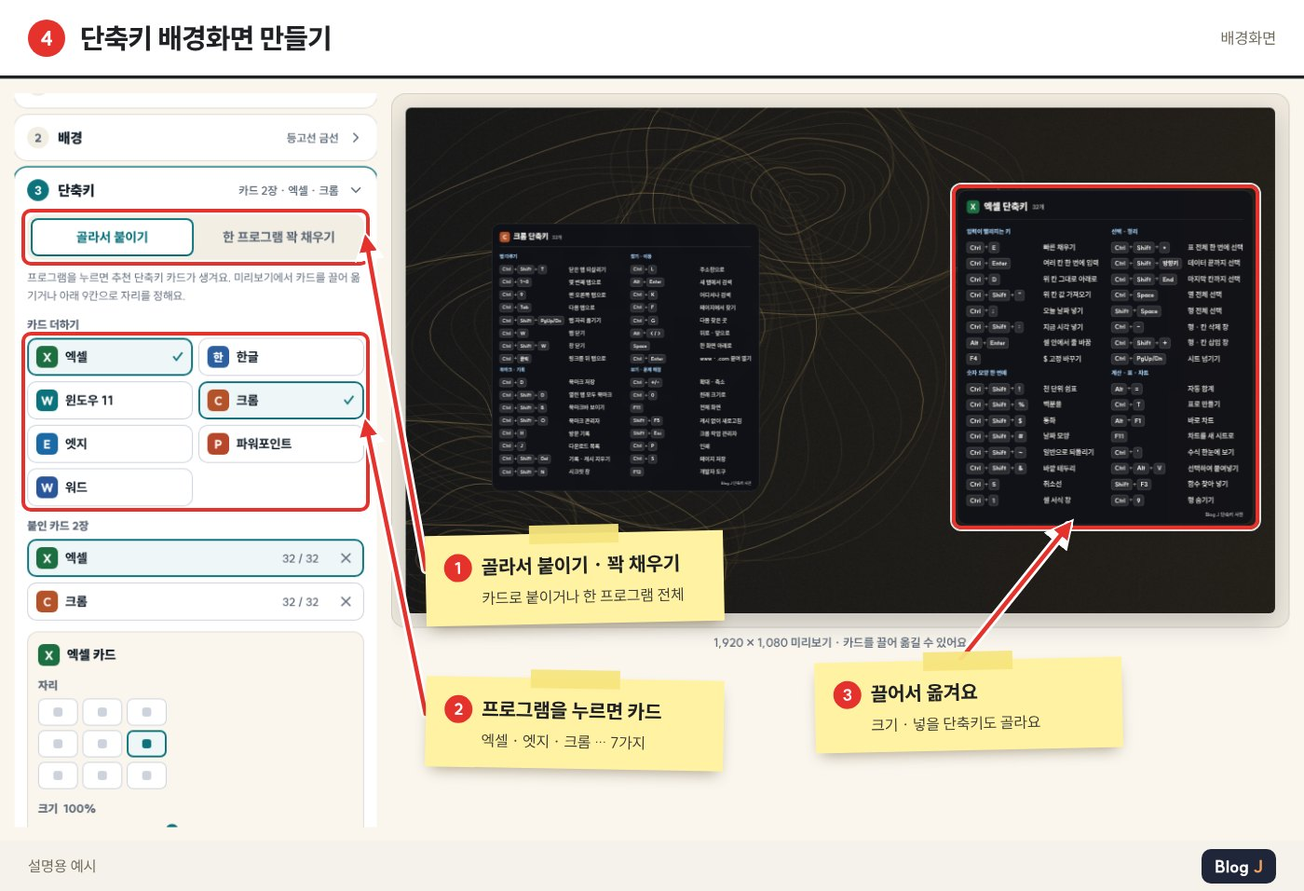
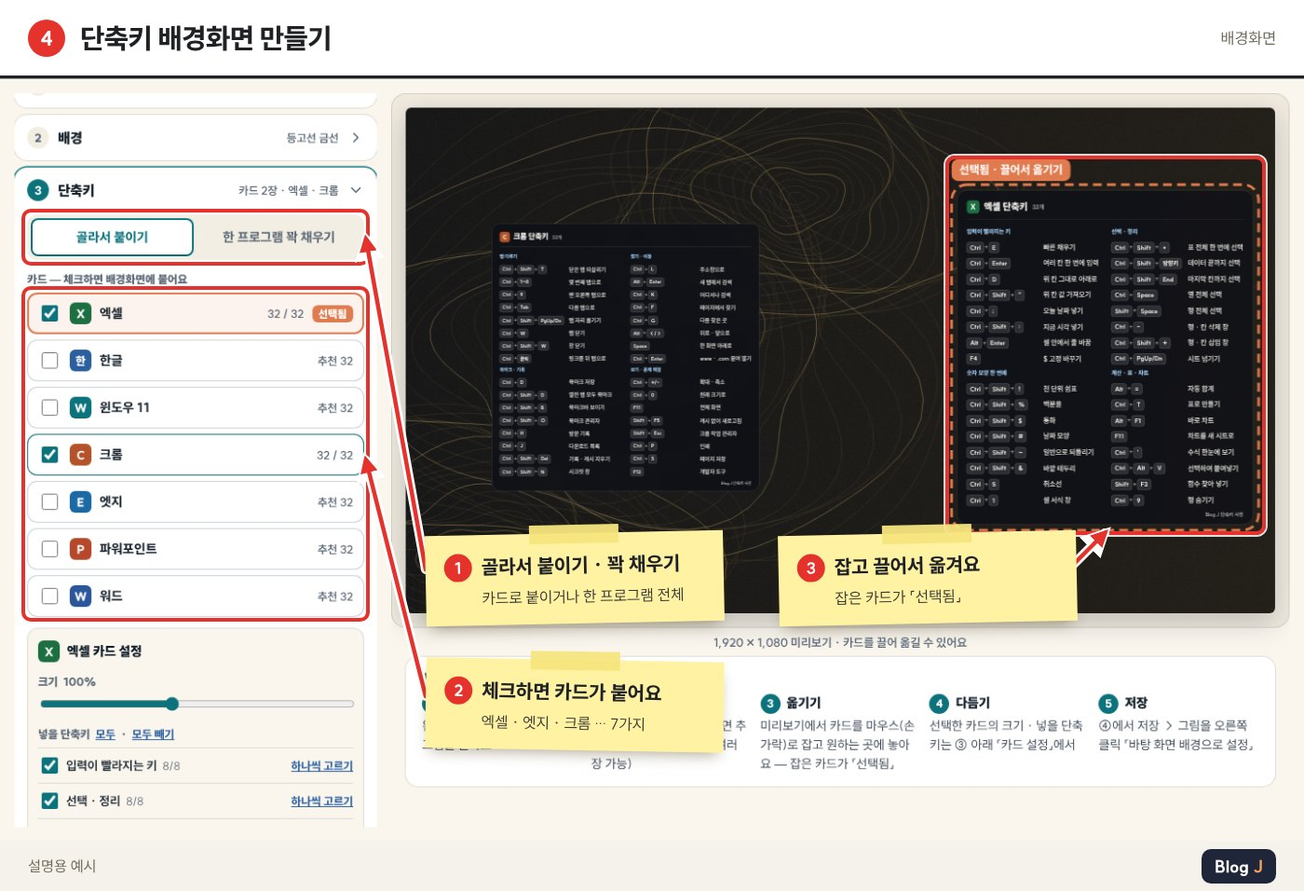
수정

Changed region(s): [[0.3071, 0.1517, 0.9829, 0.8797], [0.0, 0.3033, 0.3071, 0.91], [0.215, 0.8494, 0.2764, 0.91]]

diff --git a/shortcut/index.html b/shortcut/index.html
@@ -260,6 +260,22 @@ html.wopen,html.wopen body{overflow:hidden}
   .wtt small{display:none}
   .wback span{display:none}
 }
+.wplist{display:flex;flex-direction:column;gap:6px}
+.wpr{display:flex;align-items:center;gap:4px;padding-left:12px;border-radius:11px;box-shadow:inset 0 0 0 1px var(--line);background:#fff}
+.wpr.has{box-shadow:inset 0 0 0 1px var(--sea)}
+.wpr.sel{box-shadow:inset 0 0 0 2px #E07A4F;background:#FDF3EE}
+.wpn{flex:1;display:flex;align-items:center;gap:9px;height:46px;padding:0 12px 0 6px;text-align:left;min-width:0}
+.wpn b{font-size:14.5px;font-weight:800}
+.wpn span{margin-left:auto;font-size:12.5px;color:var(--sub);font-weight:700}
+.wpn em{font-style:normal;font-size:12px;font-weight:900;color:#fff;background:#E07A4F;border-radius:6px;padding:2px 7px}
+.wpn i{width:24px;height:24px;border-radius:6px;display:grid;place-items:center;color:#fff;font-style:normal;font-weight:900;font-size:12.5px;flex-shrink:0}
+.whow{width:100%;max-width:960px;background:#fff;border-radius:14px;box-shadow:0 0 0 1px var(--hair);padding:14px 18px;box-sizing:border-box}
+.wht{display:block;font-size:15px;font-weight:900;margin-bottom:8px}
+.whow ol{margin:0;padding:0;list-style:none;counter-reset:h;display:grid;grid-template-columns:repeat(auto-fit,minmax(170px,1fr));gap:10px}
+.whow li{counter-increment:h;display:flex;flex-direction:column;gap:3px;font-size:14px;line-height:1.5;color:var(--ink)}
+.whow li b{display:flex;align-items:center;gap:7px;font-weight:900;font-size:14.5px}
+.whow li b:before{content:counter(h);width:22px;height:22px;border-radius:50%;background:var(--sea);color:#fff;display:grid;place-items:center;font-size:12.5px;flex-shrink:0}
+.whow li span{color:#3c4856}
 
 .wcta{display:flex;align-items:center;gap:12px;width:100%;padding:14px;border-radius:14px;background:var(--deep);color:#fff;text-align:left;font:inherit;border:0;cursor:pointer;margin-top:12px;box-shadow:0 4px 14px rgba(11,61,74,.18)}
 .wcta:hover{background:#0d4a59}
@@ -865,12 +881,12 @@ const WREC = {"excel":{"t":"엑셀 단축키","g":[["입력이 빨라지는 키"
 const WSC = {
   contour: ["등고선 금선", "도형"], marble: ["대리석 · 금", "도형"], grid: ["모래 · 바다 모눈", "도형"], stage: ["겨울 무대 조명", "도형"], arches: ["봄 파스텔 도형", "도형"], bauhaus: ["여름 원색 도형", "도형"], papercut: ["가을 종이 공예", "도형"],
   desk_winter: ["겨울 편지", "책상"], desk_spring: ["봄 책상", "책상"], desk_summer: ["여름 원고지", "책상"], desk_autumn: ["가을 책과 차", "책상"],
-  snowpeak: ["새벽 설산", "겨울"], nightforest: ["눈 내리는 숲", "겨울"], pine: ["겨울 소나무", "한국"], city: ["겨울 밤 도시", "도시"], aurora: ["오로라 별밤", "하늘"],
-  sakura: ["벚꽃 가지", "봄"], plum: ["봄 매화", "한국"], alley: ["봄 골목", "도시"], dawn: ["새벽 하늘", "하늘"],
-  sea: ["모래 · 바다 · 하늘", "여름"], coast: ["여름 해안 도로", "도시"], bamboo: ["여름 대나무", "한국"], cloud: ["한낮 구름", "하늘"],
-  maple: ["단풍 산", "가을"], avenue: ["가을 가로수길", "도시"], chrysan: ["가을 국화", "한국"], sunset: ["노을", "하늘"], moonjar: ["한지 · 달항아리", "한국"]
+  snowpeak: ["새벽 설산", "계절"], nightforest: ["눈 내리는 숲", "계절"], pine: ["겨울 소나무", "한국"], city: ["겨울 밤 도시", "도시"], aurora: ["오로라 별밤", "하늘"],
+  sakura: ["벚꽃 가지", "계절"], plum: ["봄 매화", "한국"], alley: ["봄 골목", "도시"], dawn: ["새벽 하늘", "하늘"],
+  sea: ["모래 · 바다 · 하늘", "계절"], coast: ["여름 해안 도로", "도시"], bamboo: ["여름 대나무", "한국"], cloud: ["한낮 구름", "하늘"],
+  maple: ["단풍 산", "계절"], avenue: ["가을 가로수길", "도시"], chrysan: ["가을 국화", "한국"], sunset: ["노을", "하늘"], moonjar: ["한지 · 달항아리", "한국"]
 };
-const WCATS = ["도형", "책상", "겨울", "봄", "여름", "가을", "한국", "하늘", "도시", "단색", "내 사진"];
+const WCATS = ["계절", "도형", "책상", "한국", "하늘", "도시", "단색", "내 사진"];
 const WSOLID = [["#0B3D4A", "깊은 바다"], ["#14202B", "먹"], ["#2B3A55", "남색 밤"], ["#1E3A2F", "숲"], ["#F3EEE3", "모래"], ["#E9EEF2", "구름"], ["#FFFFFF", "흰색"], ["#F4DCD3", "살구"]];
 const WRES = [
   ["PC · 모니터", [[1920, 1080, "FHD", "가장 흔한 모니터"], [2560, 1440, "QHD", "27인치"], [3840, 2160, "4K", "4K 모니터"], [3440, 1440, "울트라와이드", "21:9"]]],
@@ -885,7 +901,7 @@ function BL() {
     mode: "pick", cards: [{ p: "excel", off: [], size: 100, fx: .94, fy: .5 }], sel: 0, open: {}, fp: "excel", fsrc: "rec", fcats: [], icon: true, fmt: "png" };
 }
 let W = (() => { try { const v = JSON.parse(localStorage.getItem(LK) || "null"); if (v && v.cards) return Object.assign(BL(), v); } catch (e) {} return BL(); })();
-if (!W.cards.length) W.cards = BL().cards;
+if (!W.cards) W.cards = BL().cards; if (!WCATS.includes(W.cat)) W.cat = "계절";
 let svT; const wsave = () => { clearTimeout(svT); svT = setTimeout(() => { try { localStorage.setItem(LK, JSON.stringify(W)); } catch (e) {} }, 300); };
 let PHOTO = null;
 const $w = s => document.querySelector("#wallv " + s);
@@ -913,16 +929,15 @@ function theme(bg) {
     cap: dark ? "rgba(255,255,255,.12)" : "#FFFFFF", capl: dark ? "rgba(255,255,255,.26)" : "rgba(20,32,43,.22)" };
 }
 function rr(c, x, y, w, h, r) { c.beginPath(); c.moveTo(x + r, y); c.arcTo(x + w, y, x + w, y + h, r); c.arcTo(x + w, y + h, x, y + h, r); c.arcTo(x, y + h, x, y, r); c.arcTo(x, y, x + w, y, r); c.closePath(); }
-function panel(c, src, k, T, x, y, w, h, u) {
+function panel(c, src, k, T, x, y, w, h, u, op) {   /* src = 미리 흐리게 줄인 배경(blur) */
   if (T.mode === "none") return; const r = 22 * u;
   if (T.mode === "glass" || T.mode === "dark") {
-    const q = 1 / 18, t = document.createElement("canvas"); t.width = Math.max(2, Math.round(w * k * q)); t.height = Math.max(2, Math.round(h * k * q));
-    const tc = t.getContext("2d"); tc.imageSmoothingQuality = "high"; tc.drawImage(src, x * k, y * k, w * k, h * k, 0, 0, t.width, t.height);
-    c.save(); rr(c, x, y, w, h, r); c.clip(); c.drawImage(t, x, y, w, h);
-    c.fillStyle = T.mode === "dark" ? "rgba(10,14,22,.68)" : `rgba(255,255,255,${Math.min(.84, Math.max(.36, T.ga + .14))})`; c.fillRect(x, y, w, h); c.restore();
+    const q = src.width / (W.w * k);
+    c.save(); rr(c, x, y, w, h, r); c.clip(); c.imageSmoothingQuality = "high"; c.drawImage(src, x * k * q, y * k * q, Math.max(1, w * k * q), Math.max(1, h * k * q), x, y, w, h);
+    c.fillStyle = T.mode === "dark" ? `rgba(10,14,22,${op || .68})` : `rgba(255,255,255,${op || Math.min(.84, Math.max(.36, T.ga + .14))})`; c.fillRect(x, y, w, h); c.restore();
     c.save(); rr(c, x + .5, y + .5, w - 1, h - 1, r); c.strokeStyle = T.mode === "dark" ? "rgba(255,255,255,.14)" : "rgba(255,255,255,.6)"; c.lineWidth = 1.5 * u; c.stroke(); c.restore();
   } else {
-    c.save(); c.shadowColor = "rgba(40,30,10,.25)"; c.shadowBlur = 36 * u; c.shadowOffsetY = 14 * u; rr(c, x, y, w, h, r); c.fillStyle = T.pbg; c.fill(); c.restore();
+    c.save(); c.shadowColor = "rgba(40,30,10,.25)"; c.shadowBlur = 36 * u; c.shadowOffsetY = 14 * u; rr(c, x, y, w, h, r); c.fillStyle = op ? `rgba(253,250,244,${op + .06})` : T.pbg; c.fill(); c.restore();
     c.save(); rr(c, x + .5, y + .5, w - 1, h - 1, r); c.strokeStyle = T.pline; c.lineWidth = 1.2 * u; c.stroke(); c.restore();
   }
 }
@@ -986,77 +1001,92 @@ function fullList() {
 }
 function catsOf(p) { const M = new Map(); for (const x of DATA.items) if (x.p === p) M.set(x.c, (M.get(x.c) || 0) + 1); return [...M]; }
 function drawFull(c, src, k, T, w, h, u) {
-  const A = safe(w, h, u), P = PROG[W.fp], G = fullList();
+  const rec = W.fsrc === "rec";
+  let A = safe(w, h, u); if (!rec && !port()) A = { x0: W.icon ? Math.min(w * .075, 150 * u) : w * .012, x1: w - w * .012, y0: h * .018, y1: h - 58 * u };   /* 전체 = 화면 가득 */
+  const P = PROG[W.fp], G = fullList();
   const n = G.reduce((a, g) => a + g[1].length, 0);
-  const px = A.x0, py = A.y0, pw = A.x1 - A.x0, ph = A.y1 - A.y0;
-  panel(c, src, k, T, px, py, pw, ph, u);
-  const pad = 26 * u, head = 58 * u;
-  rr(c, px + pad, py + pad + 4 * u, 34 * u, 34 * u, 8 * u); c.fillStyle = P.c; c.fill(); T_(c, P.ab, px + pad + 17 * u, py + pad + 21.5 * u, 18 * u, 900, "#fff", "center");
-  T_(c, P.n + " 단축키", px + pad + 46 * u, py + pad + 21 * u, 26 * u, 900, T.ink); F(c, 26 * u, 900);
-  T_(c, `${n}개 · ${P.v}`, px + pad + 46 * u + c.measureText(P.n + " 단축키").width + 12 * u, py + pad + 22 * u, 14 * u, 700, T.sub);
-  T_(c, "Blog J 단축키 사전", px + pw - pad, py + pad + 22 * u, 12.5 * u, 700, T.sub, "right");
-  const X0 = px + pad, Y0 = py + pad + head, CW = pw - pad * 2, CH = ph - pad * 2 - head;
-  /* 글자 크기 · 칸 수 찾기 — 다 들어가는 가장 큰 글자 */
+  const pad = (rec ? 26 : 20) * u, head = (rec ? 58 : 50) * u, AW = A.x1 - A.x0, AH = A.y1 - A.y0, CW = AW - pad * 2, CH = AH - pad * 2 - head;
+  /* 글자 크기 · 칸 수 찾기 — 다 들어가는 가장 큰 글자(추천은 너무 크지 않게) */
+  const tryFit = (f, cols, cw) => { const lh = f * 1.62, hh = f * 2.05; let col = 0, y = 0, maxY = 0;
+    for (const g of G) { if (y > 0 && y + hh + lh > CH) { col++; y = 0; } y += hh;
+      for (let i = 0; i < g[1].length; i++) { if (y + lh > CH) { col++; y = 0; } y += lh; maxY = Math.max(maxY, y); }
+      if (col >= cols) return null; }
+    return { used: col + 1, maxY }; };
   let best = null;
-  for (let fs = 19; fs >= 8.5; fs -= .5) {
-    const f = fs * u, lh = f * 1.62, hh = f * 2.05, gap = f * 1.6;
-    const cols = Math.max(1, Math.floor((CW + gap) / (f * (W.fsrc === "rec" ? 21 : 24) + gap)));
-    const cw = (CW - (cols - 1) * gap) / cols;
-    let col = 0, y = 0, ok = true;
-    for (const g of G) {
-      if (y > 0 && y + hh + lh > CH) { col++; y = 0; }
-      y += hh;
-      for (let i = 0; i < g[1].length; i++) { if (y + lh > CH) { col++; y = 0; } y += lh; }
-      if (col >= cols) { ok = false; break; }
-    }
-    if (ok) { best = { f, lh, hh, gap, cols, cw }; break; }
+  for (let fs = rec ? 17 : 19; fs >= 8.5; fs -= .5) {
+    const f = fs * u, gap = f * 1.6, cols = Math.max(1, Math.floor((CW + gap) / (f * (rec ? 21 : 24) + gap))), cw = (CW - (cols - 1) * gap) / cols;
+    const r = tryFit(f, cols, cw); if (r) { best = { f, gap, cols, cw, used: r.used, maxY: r.maxY }; break; }
   }
   const small = !best;
-  if (!best) { const f = 8.5 * u; best = { f, lh: f * 1.62, hh: f * 2.05, gap: f * 1.6, cols: Math.max(1, Math.floor(CW / (f * 24))), cw: 0 }; best.cw = (CW - (best.cols - 1) * best.gap) / best.cols; }
-  const { f, lh, hh, gap, cols, cw } = best; const kw = cw * (W.fsrc === "rec" ? .46 : .4);
+  if (!best) { const f = 8.5 * u, gap = f * 1.6, cols = Math.max(1, Math.floor(CW / (f * 24))); best = { f, gap, cols, cw: (CW - (cols - 1) * gap) / cols, used: cols, maxY: CH }; }
+  let { f, gap, cw, used, maxY } = best; const lh = f * 1.62, hh = f * 2.05;
+  /* 판 크기 = 내용만큼(남는 공간 없이) — 추천은 칸 너비도 내용에 맞춤 */
+  if (rec) { let need = 0, cm = 0, lm = 0; G.forEach(g => g[1].forEach(it => { cm = Math.max(cm, capsW(c, it[0], f * .86)); F(c, f, 600); lm = Math.max(lm, c.measureText(it[1]).width); })); G.forEach(g => g[1].forEach(it => { const cw0 = capsW(c, it[0], f * .86); F(c, f, 600); need = Math.max(need, cw0 + f * 1.2 + c.measureText(it[1]).width); })); need = Math.max(need, cm + f * 1.2 + lm); cw = Math.min(cw, need + f); }
+  const kw = rec ? null : cw * .4;
+  const pw = Math.min(AW, pad * 2 + used * cw + (used - 1) * gap), ph = Math.min(AH, pad * 2 + head + maxY);
+  const px = rec ? A.x1 - pw : A.x0 + (AW - pw) / 2, py = A.y0 + (AH - ph) / 2;
+  panel(c, src, k, T, px, py, pw, ph, u, rec ? 0 : .86);
+  rr(c, px + pad, py + pad + 4 * u, 34 * u, 34 * u, 8 * u); c.fillStyle = P.c; c.fill(); T_(c, P.ab, px + pad + 17 * u, py + pad + 21.5 * u, 18 * u, 900, "#fff", "center");
+  T_(c, P.n + " 단축키", px + pad + 46 * u, py + pad + 21 * u, 26 * u, 900, T.ink); F(c, 26 * u, 900); const tw = c.measureText(P.n + " 단축키").width;
+  T_(c, rec ? `추천 ${n}개` : `${n}개 · ${P.v}`, px + pad + 46 * u + tw + 12 * u, py + pad + 22 * u, 14 * u, 700, T.sub);
+  if (pw > 520 * u) T_(c, "Blog J 단축키 사전", px + pw - pad, py + pad + 22 * u, 12.5 * u, 700, T.sub, "right");
+  const X0 = px + pad, Y0 = py + pad + head, CH2 = ph - pad * 2 - head;
+  let capMax = 0; if (rec) G.forEach(g => g[1].forEach(it => { capMax = Math.max(capMax, capsW(c, it[0], f * .86)); }));
   let col = 0, y = 0; const X = () => X0 + col * (cw + gap);
   for (const g of G) {
-    if (y > 0 && y + hh + lh > CH) { col++; y = 0; } if (col >= cols) break;
+    if (y > 0 && y + hh + lh > CH2 + 1) { col++; y = 0; } if (col >= used) break;
     T_(c, g[0], X(), Y0 + y + hh * .55, f * 1.05, 900, T.acc); c.fillStyle = T.dark ? "rgba(255,255,255,.14)" : "rgba(20,32,43,.1)"; c.fillRect(X(), Y0 + y + hh - f * .32, cw, Math.max(1, u * .8)); y += hh;
     for (const it of g[1]) {
-      if (y + lh > CH) { col++; y = 0; } if (col >= cols) break;
+      if (y + lh > CH2 + 1) { col++; y = 0; } if (col >= used) break;
       const cyy = Y0 + y + lh / 2;
-      if (it[2]) { const capw = capsW(c, it[0], f * .86); if (capw <= kw) drawCaps(c, T, it[0], X(), cyy, f * .86); else { F(c, f * .92, 800); T_(c, fit(c, it[0].join("+"), kw), X(), cyy, f * .92, 800, T.acc); } }
-      else { F(c, f * .92, 800); T_(c, fit(c, String(it[0]).replace(/ \/ /g, " · "), kw - f * .6), X(), cyy, f * .92, 800, T.acc); }
-      F(c, f, 600); T_(c, fit(c, it[1], cw - kw - f * .3), X() + kw, cyy, f, 600, T.ink);
+      if (it[2]) { drawCaps(c, T, it[0], X(), cyy, f * .86); F(c, f, 600); T_(c, fit(c, it[1], cw - capMax - f * 1.2), X() + capMax + f * 1.2, cyy, f, 600, T.ink); }
+      else { F(c, f * .92, 800); T_(c, fit(c, String(it[0]).replace(/ \/ /g, " · "), kw - f * .6), X(), cyy, f * .92, 800, T.acc); F(c, f, 600); T_(c, fit(c, it[1], cw - kw - f * .3), X() + kw, cyy, f, 600, T.ink); }
       y += lh;
     }
   }
   return { small, n };
 }
 
-/* ── 그리기 ── */
-let RECTS = [], LASTINFO = {};
-async function render(cv, k) {
+/* ── 그리기 ── 배경은 한 번만 그려 두고(BGC), 카드만 다시 그림 → 끌 때 부드럽게 */
+let RECTS = [], LASTINFO = {}; const BGC = {}; let photoId = 0;
+async function ensureBg(k, slot) {
   const w = W.w, h = W.h, pw = Math.max(2, Math.round(w * k)), ph = Math.max(2, Math.round(h * k));
-  cv.width = pw; cv.height = ph; const c = cv.getContext("2d");
+  const key = [pw, ph, W.cat, W.scene, W.solid, W.dim, photoId].join("|");
+  if (BGC[slot] && BGC[slot].key === key) return BGC[slot];
   try { await document.fonts.load(`800 20px "SUIT Variable"`); } catch (e) {}
-  const bg = await bgOf(pw, ph);
-  c.setTransform(1, 0, 0, 1, 0, 0);
+  const bg = await bgOf(pw, ph), cv = document.createElement("canvas"); cv.width = pw; cv.height = ph; const c = cv.getContext("2d");
   if (bg.solid) { c.fillStyle = bg.solid; c.fillRect(0, 0, pw, ph); }
   else if (bg.photo) { const im = bg.im, r = Math.max(pw / im.width, ph / im.height), dw = im.width * r, dh = im.height * r; c.drawImage(im, (pw - dw) / 2, (ph - dh) / 2, dw, dh); if (W.dim) { c.fillStyle = `rgba(0,0,0,${W.dim / 100})`; c.fillRect(0, 0, pw, ph); } }
   else c.drawImage(bg.im, 0, 0, pw, ph);
-  const src = document.createElement("canvas"); src.width = pw; src.height = ph; src.getContext("2d").drawImage(cv, 0, 0);
-  c.setTransform(k, 0, 0, k, 0, 0);
-  const T = theme(bg), u = Math.min(w, h) / 1080 * (port() ? 1.3 : 1);
-  RECTS = []; LASTINFO = {};
-  if (W.mode === "full") { LASTINFO = drawFull(c, src, k, T, w, h, u); return; }
+  const bl = document.createElement("canvas"); bl.width = Math.max(2, Math.round(pw / 18)); bl.height = Math.max(2, Math.round(ph / 18)); const bc = bl.getContext("2d"); bc.imageSmoothingQuality = "high"; bc.drawImage(cv, 0, 0, bl.width, bl.height);
+  return (BGC[slot] = { key, cv, bl, bg, k, pw, ph });
+}
+function compose(out, B, pv, bgOnly) {
+  const w = W.w, h = W.h, k = B.k; if (out.width !== B.pw) out.width = B.pw; if (out.height !== B.ph) out.height = B.ph;
+  const c = out.getContext("2d"); c.setTransform(1, 0, 0, 1, 0, 0); c.drawImage(B.cv, 0, 0); c.setTransform(k, 0, 0, k, 0, 0);
+  const T = theme(B.bg), u = Math.min(w, h) / 1080 * (port() ? 1.3 : 1);
+  RECTS = []; LASTINFO = {}; if (bgOnly) return;
+  if (W.mode === "full") { LASTINFO = drawFull(c, B.bl, k, T, w, h, u); return; }
   const A = safe(w, h, u);
   const order = W.cards.map((cd, i) => i).filter(i => i !== W.sel).concat(W.cards[W.sel] ? [W.sel] : []);   /* 고른 카드를 맨 위에 */
   order.forEach(i => { const cd = W.cards[i];
     if (!WREC[cd.p]) return; const L = layoutCard(c, cd, u); if (!L.n) return;
     let x = A.x0 + (A.x1 - A.x0) * cd.fx - L.w / 2, y = A.y0 + (A.y1 - A.y0) * cd.fy - L.h / 2;
     x = Math.max(A.x0, Math.min(A.x1 - L.w, x)); y = Math.max(A.y0, Math.min(A.y1 - L.h, y));
-    panel(c, src, k, T, x, y, L.w, L.h, L.s); drawCard(c, T, cd, L, x, y);
+    const lift = pv && drag && drag.i === i;
+    if (lift) { c.save(); const cx = x + L.w / 2, cy = y + L.h / 2; c.translate(cx, cy); c.scale(1.025, 1.025); c.translate(-cx, -cy);
+      c.save(); c.shadowColor = "rgba(0,0,0,.45)"; c.shadowBlur = 60 * L.s; c.shadowOffsetY = 28 * L.s; rr(c, x, y, L.w, L.h, 22 * L.s); c.fillStyle = "rgba(0,0,0,.25)"; c.fill(); c.restore(); }
+    panel(c, B.bl, k, T, x, y, L.w, L.h, L.s); drawCard(c, T, cd, L, x, y);
+    if (pv && i === W.sel && W.cards.length) {   /* 미리보기에서만: 고른 카드 표시(저장 그림에는 없음) */
+      const lw = 3 / k, g = 6 / k; c.save(); rr(c, x - g, y - g, L.w + g * 2, L.h + g * 2, 22 * L.s + g); c.strokeStyle = "#E07A4F"; c.lineWidth = lw; c.setLineDash([10 / k, 6 / k]); c.stroke(); c.setLineDash([]);
+      const tag = "선택됨 · 끌어서 옮기기"; c.font = `800 ${13 / k}px ${FONT}`; const tw = c.measureText(tag).width + 18 / k, th = 24 / k, tx = x - g, ty = Math.max(th / 2, y - g - th - 4 / k);
+      rr(c, tx, ty, tw, th, 7 / k); c.fillStyle = "#E07A4F"; c.fill(); c.fillStyle = "#fff"; c.textAlign = "left"; c.textBaseline = "middle"; c.fillText(tag, tx + 9 / k, ty + th / 2 + .5 / k); c.restore(); }
+    if (lift) c.restore();
     RECTS.push({ i, x, y, w: L.w, h: L.h, A, over: L.w > A.x1 - A.x0 || L.h > A.y1 - A.y0 });
   });
   LASTINFO.over = RECTS.some(r => r.over);
 }
+async function render(cv, k, slot, pv, bgOnly) { const B = await ensureBg(k, slot || "save"); compose(cv, B, pv, bgOnly); }
 
 /* ── 화면 ── */
 const IC = {
@@ -1066,7 +1096,7 @@ const IC = {
 const svg = n => `<svg viewBox="0 0 24 24" fill="none" stroke="currentColor" stroke-width="2.2" stroke-linecap="round" stroke-linejoin="round">${IC[n]}</svg>`;
 const resName = () => { for (const [, L] of WRES) for (const r of L) if (r[0] === W.w && r[1] === W.h) return r[2]; return "직접"; };
 const STEPS = [["크기", () => `${W.w.toLocaleString()} × ${W.h.toLocaleString()} · ${resName()}`], ["배경", () => W.cat === "단색" ? "단색" : W.cat === "내 사진" ? "내 사진" : (WSC[W.scene] || ["그림"])[0]],
-  ["단축키", () => W.mode === "full" ? `${PROG[W.fp].n} ${W.fsrc === "rec" ? "추천 32개" : "전체"} 꽉 채우기` : `카드 ${W.cards.length}장 · ${W.cards.map(c => PROG[c.p].n).join(" · ")}`], ["저장", () => (W.fmt || "png").toUpperCase()]];
+  ["단축키", () => W.mode === "full" ? `${PROG[W.fp].n} ${W.fsrc === "rec" ? "추천 32개" : "전체"} 꽉 채우기` : (W.cards.length ? `카드 ${W.cards.length}장 · ${W.cards.map(c => PROG[c.p].n).join(" · ")}` : "카드 없음 · 그림만")], ["저장", () => (W.fmt || "png").toUpperCase()]];
 function side() {
   let h = "";
   STEPS.forEach(([t, sm], i) => {
@@ -1091,13 +1121,12 @@ function bBg() {
 function bKeys() {
   let h = `<div class="wseg big"><button type="button" class="${W.mode === "pick" ? "on" : ""}" data-w="mode" data-v="pick">골라서 붙이기</button><button type="button" class="${W.mode === "full" ? "on" : ""}" data-w="mode" data-v="full">한 프로그램 꽉 채우기</button></div>`;
   if (W.mode === "pick") {
-    h += `<p class="wtip">프로그램을 누르면 추천 단축키 카드가 생겨요. 미리보기에서 카드를 끌어 옮기거나 아래 9칸으로 자리를 정해요.</p><div class="wlab">카드 더하기</div><div class="wprog">${ORDER.map(p => { const has = W.cards.findIndex(c => c.p === p); return `<button type="button" class="wp${has >= 0 ? " has" : ""}" data-w="add" data-v="${p}"><i style="background:${PROG[p].c}">${PROG[p].ab}</i>${PROG[p].n}${has >= 0 ? "<em>✓</em>" : ""}</button>`; }).join("")}</div>`;
-    h += `<div class="wlab">붙인 카드 ${W.cards.length}장</div><div class="wcards">${W.cards.map((cd, i) => { const n = cardItems(cd).reduce((a, g) => a + g[1].length, 0); return `<div class="wcd${i === W.sel ? " on" : ""}"><button type="button" class="wcs" data-w="sel" data-v="${i}"><i style="background:${PROG[cd.p].c}">${PROG[cd.p].ab}</i><b>${PROG[cd.p].n}</b><span class="num">${n} / 32</span></button><button type="button" class="wx" data-w="del" data-v="${i}" aria-label="${PROG[cd.p].n} 카드 빼기">${svg("x")}</button></div>`; }).join("") || '<div class="wtip">위에서 프로그램을 골라 카드를 더하세요</div>'}</div>`;
+    h += `<div class="wlab">카드 — 체크하면 배경화면에 붙어요</div><div class="wplist">${ORDER.map(p => { const i = W.cards.findIndex(c => c.p === p), on = i >= 0, cd = W.cards[i], n = on ? cardItems(cd).reduce((a, g) => a + g[1].length, 0) : 32;
+      return `<div class="wpr${on ? " has" : ""}${on && i === W.sel ? " sel" : ""}"><input type="checkbox" data-wcard="${p}" ${on ? "checked" : ""} aria-label="${PROG[p].n} 카드 붙이기"><button type="button" class="wpn" data-w="selp" data-v="${p}"><i style="background:${PROG[p].c}">${PROG[p].ab}</i><b>${PROG[p].n}</b><span class="num">${on ? n + " / 32" : "추천 32"}</span>${on && i === W.sel ? '<em>선택됨</em>' : ""}</button></div>`; }).join("")}</div>`;
     const cd = W.cards[W.sel];
     if (cd) {
       const R = WREC[cd.p], off = new Set(cd.off || []);
-      h += `<div class="wbox"><div class="wbt"><i style="background:${PROG[cd.p].c}">${PROG[cd.p].ab}</i>${PROG[cd.p].n} 카드</div>`
-        + `<div class="wlab">자리</div><div class="wpos">${[[.06, .06], [.5, .06], [.94, .06], [.06, .5], [.5, .5], [.94, .5], [.06, .94], [.5, .94], [.94, .94]].map(([x, y]) => `<button type="button" class="${Math.abs(cd.fx - x) < .02 && Math.abs(cd.fy - y) < .02 ? "on" : ""}" data-w="pos" data-v="${x},${y}"><i></i></button>`).join("")}</div>`
+      h += `<div class="wbox"><div class="wbt"><i style="background:${PROG[cd.p].c}">${PROG[cd.p].ab}</i>${PROG[cd.p].n} 카드 설정</div>`
         + `<div class="wlab">크기 <span class="num">${cd.size}%</span></div><input type="range" min="50" max="170" step="5" value="${cd.size}" data-wr="size" class="wrange">`
         + `<div class="wlab">넣을 단축키 <button type="button" class="wlink" data-w="all">모두</button> · <button type="button" class="wlink" data-w="none">모두 빼기</button></div>`
         + R.g.map((g, gi) => { const ids = g[1].map((_, ki) => gi + ":" + ki), cnt = ids.filter(x => !off.has(x)).length, op = W.open[cd.p + gi];
@@ -1116,7 +1145,7 @@ function bKeys() {
 }
 function bSave() {
   return `<div class="wseg"><button type="button" class="${W.fmt !== "jpg" ? "on" : ""}" data-w="fmt" data-v="png">PNG(선명)</button><button type="button" class="${W.fmt === "jpg" ? "on" : ""}" data-w="fmt" data-v="jpg">JPG(가볍게)</button></div>
-  <button type="button" class="wbtn pri wide" data-w="save">${svg("dl")}배경화면 저장 <span class="num">${W.w} × ${W.h}</span></button>
+  <button type="button" class="wbtn pri wide" data-w="save">${svg("dl")}배경화면 저장 <span class="num">${W.w} × ${W.h}</span></button><button type="button" class="wbtn wide" data-w="savebg">${svg("img")}단축키 없이 그림만 저장</button>
   <div class="wlab">바탕화면에 넣기</div><ol class="wol"><li><b>윈도우</b> — 저장한 그림을 오른쪽 클릭 → 「바탕 화면 배경으로 설정」</li><li><b>맥</b> — 그림을 오른쪽 클릭 → 「빠른 동작」 → 「데스크탑 사진 설정」</li><li><b>휴대폰</b> — 갤러리(사진)에서 열고 → 「배경화면으로 설정」</li></ol>
   <p class="wtip">그림과 단축키 판은 이 기기에서 만들어져요 — 어디에도 올리지 않아요.</p>`;
 }
@@ -1134,22 +1163,27 @@ function preview() { clearTimeout(pvT); pvT = setTimeout(async () => {
   if (pvBusy) { pvAgain = true; return; } pvBusy = true;
   try { const cv = $w("#wcv"), box = $w(".wpv"); const bw = box.clientWidth, bh = Math.max(220, Math.min(innerHeight * (innerWidth < 900 ? .5 : .74), box.clientWidth * W.h / W.w));
     const k = Math.min(bw / W.w, bh / W.h) * Math.min(2, devicePixelRatio || 1);
-    await render(cv, k); cv.style.width = (W.w * k / Math.min(2, devicePixelRatio || 1)) + "px"; cv.style.height = (W.h * k / Math.min(2, devicePixelRatio || 1)) + "px";
+    await render(cv, k, "pv", true); cv.style.width = (W.w * k / Math.min(2, devicePixelRatio || 1)) + "px"; cv.style.height = (W.h * k / Math.min(2, devicePixelRatio || 1)) + "px";
     $w(".wmeta").textContent = `${W.w.toLocaleString()} × ${W.h.toLocaleString()} 미리보기${W.mode === "pick" ? " · 카드를 끌어 옮길 수 있어요" : ""}`;
     const warn = W.mode === "pick" && LASTINFO.over ? "카드가 화면보다 커요 — 크기를 줄이거나 단축키를 덜어 주세요" : W.mode === "full" && LASTINFO.small ? "다 넣기엔 좁아 일부가 잘려요 — 분류를 줄이거나 큰 해상도로" : "";
-    $w(".wwarn2").textContent = warn; $w(".wwarn2").hidden = !warn;
+    $w(".wwarn2").textContent = warn; $w(".wwarn2").hidden = !warn; how();
   } catch (e) { console.warn(e); }
   pvBusy = false; if (pvAgain) { pvAgain = false; preview(); }
 }, 60); }
+function how() {
+  const L = W.mode === "pick" ? [["크기 · 배경", "왼쪽 ① ②에서 내 화면 크기와 그림을 골라요"], ["카드 붙이기", "③에서 프로그램에 체크하면 추천 단축키 카드가 붙어요(여러 장 가능)"], ["옮기기", "미리보기에서 카드를 마우스(손가락)로 잡고 원하는 곳에 놓아요 — 잡은 카드가 「선택됨」"], ["다듬기", "선택한 카드의 크기 · 넣을 단축키는 ③ 아래 「카드 설정」에서"], ["저장", "④에서 저장 → 그림을 오른쪽 클릭 「바탕 화면 배경으로 설정」"]]
+    : [["크기 · 배경", "왼쪽 ① ②에서 내 화면 크기와 그림을 골라요"], ["프로그램", "③에서 프로그램 하나를 골라요"], ["담을 단축키", "추천 32개(크게) 또는 전체(작게) — 분류를 빼면 글자가 커져요"], ["저장", "④에서 저장 → 그림을 오른쪽 클릭 「바탕 화면 배경으로 설정」"]];
+  $w(".whow").innerHTML = `<b class="wht">사용 방법</b><ol>${L.map(([t, d]) => `<li><b>${t}</b><span>${d}</span></li>`).join("")}</ol>`;
+}
 function redraw() { side(); preview(); wsave(); }
 function toast(m) { const t = $w(".wtoast"); t.textContent = m; t.classList.add("on"); clearTimeout(toast.t); toast.t = setTimeout(() => t.classList.remove("on"), 2200); }
 
-async function saveFile() {
+async function saveFile(bgOnly) {
   const busy = $w(".wbusy"); busy.hidden = false;
   try {
-    const cv = document.createElement("canvas"); await render(cv, 1);
+    const cv = document.createElement("canvas"); await render(cv, 1, "save", false, bgOnly); delete BGC.save;
     const blob = await new Promise(r => cv.toBlob(r, W.fmt === "jpg" ? "image/jpeg" : "image/png", .93));
-    const name = `단축키배경화면_${W.mode === "full" ? PROG[W.fp].n : W.cards.map(c => PROG[c.p].n).join("_")}_${W.w}x${W.h}.${W.fmt === "jpg" ? "jpg" : "png"}`;
+    const name = bgOnly ? `배경화면_${W.cat === "단색" ? "단색" : W.cat === "내 사진" ? "내사진" : (WSC[W.scene] || ["그림"])[0].replace(/[ ·]+/g, "")}_${W.w}x${W.h}` : `단축키배경화면_${W.mode === "full" ? PROG[W.fp].n : (W.cards.map(c => PROG[c.p].n).join("_") || "그림만")}_${W.w}x${W.h}.${W.fmt === "jpg" ? "jpg" : "png"}`;
     const a = document.createElement("a"); a.href = URL.createObjectURL(blob); a.download = name; document.body.appendChild(a); a.click(); setTimeout(() => { URL.revokeObjectURL(a.href); a.remove(); }, 2000);
     toast("저장했어요 — 다운로드 폴더를 확인하세요");
   } catch (e) { toast("저장하지 못했어요 — 크기를 줄여 다시 해 보세요"); }
@@ -1157,7 +1191,7 @@ async function saveFile() {
 }
 function pickPhoto() {
   const i = document.createElement("input"); i.type = "file"; i.accept = "image/*";
-  i.onchange = () => { const f = i.files[0]; if (!f) return; const im = new Image(); im.onload = () => { PHOTO = im; redraw(); }; im.src = URL.createObjectURL(f); };
+  i.onchange = () => { const f = i.files[0]; if (!f) return; const im = new Image(); im.onload = () => { PHOTO = im; photoId++; redraw(); }; im.src = URL.createObjectURL(f); };
   i.click();
 }
 
@@ -1192,7 +1226,7 @@ function onClick(e) {
   if (a === "mode") { W.mode = v; return redraw(); }
   if (a === "add") { const i = W.cards.findIndex(c => c.p === v); if (i >= 0) { W.sel = i; return redraw(); }
     W.cards.push(place({ p: v, off: [], size: W.cards.length ? 80 : 100, fx: .5, fy: .5 })); W.sel = W.cards.length - 1; return redraw(); }
-  if (a === "sel") { W.sel = +v; return redraw(); }
+  if (a === "selp") { let i = W.cards.findIndex(c => c.p === v); if (i < 0) { W.cards.push(place({ p: v, off: [], size: W.cards.length ? 80 : 100, fx: .5, fy: .5 })); i = W.cards.length - 1; } W.sel = i; return redraw(); }
   if (a === "del") { W.cards.splice(+v, 1); W.sel = Math.max(0, Math.min(W.sel, W.cards.length - 1)); return redraw(); }
   if (a === "pos") { const [x, y] = v.split(",").map(Number); const cd = W.cards[W.sel]; if (cd) { cd.fx = x; cd.fy = y; } return redraw(); }
   if (a === "all" || a === "none") { const cd = W.cards[W.sel]; if (!cd) return; cd.off = a === "all" ? [] : WREC[cd.p].g.flatMap((g, gi) => g[1].map((_, ki) => gi + ":" + ki)); return redraw(); }
@@ -1200,7 +1234,8 @@ function onClick(e) {
   if (a === "fp") { W.fp = v; W.fcats = []; return redraw(); }
   if (a === "fsrc") { W.fsrc = v; return redraw(); }
   if (a === "fmt") { W.fmt = v; side(); wsave(); return; }
-  if (a === "save") return saveFile();
+  if (a === "save") return saveFile(false);
+  if (a === "savebg") return saveFile(true);
 }
 function onChange(e) {
   const t = e.target, cd = W.cards[W.sel];
@@ -1208,6 +1243,7 @@ function onChange(e) {
   if (t.dataset.wg != null && cd) { const gi = +t.dataset.wg, ids = WREC[cd.p].g[gi][1].map((_, ki) => gi + ":" + ki); const off = new Set(cd.off); ids.forEach(x => t.checked ? off.delete(x) : off.add(x)); cd.off = [...off]; return redraw(); }
   if (t.dataset.wk && cd) { const off = new Set(cd.off); t.checked ? off.delete(t.dataset.wk) : off.add(t.dataset.wk); cd.off = [...off]; return redraw(); }
   if (t.dataset.wc != null) { const off = new Set(W.fcats); t.checked ? off.delete(t.dataset.wc) : off.add(t.dataset.wc); W.fcats = [...off]; return redraw(); }
+  if (t.dataset.wcard) { const p = t.dataset.wcard, i = W.cards.findIndex(c => c.p === p); if (t.checked && i < 0) { W.cards.push(place({ p, off: [], size: W.cards.length ? 80 : 100, fx: .5, fy: .5 })); W.sel = W.cards.length - 1; } else if (!t.checked && i >= 0) { W.cards.splice(i, 1); W.sel = Math.max(0, Math.min(W.sel >= i ? W.sel - (W.sel > i ? 1 : 0) : W.sel, W.cards.length - 1)); } return redraw(); }
   if (t.dataset.w2 === "icon") { W.icon = t.checked; return redraw(); }
 }
 function onInput(e) {
@@ -1219,26 +1255,31 @@ function onInput(e) {
 /* 미리보기에서 카드 끌기 */
 let drag = null;
 function ptr(e) { const cv = $w("#wcv"), r = cv.getBoundingClientRect(); return { x: (e.clientX - r.left) / r.width * W.w, y: (e.clientY - r.top) / r.height * W.h }; }
+let rafD = 0;
+function fastDraw() { if (rafD) return; rafD = requestAnimationFrame(() => { rafD = 0; const B = BGC.pv; if (B) compose($w("#wcv"), B, true); else preview(); }); }
 function onDown(e) {
   if (W.mode !== "pick") return; const p = ptr(e);
   for (let j = RECTS.length - 1; j >= 0; j--) { const R = RECTS[j]; if (p.x >= R.x && p.x <= R.x + R.w && p.y >= R.y && p.y <= R.y + R.h) {
-    drag = { i: R.i, dx: p.x - (R.x + R.w / 2), dy: p.y - (R.y + R.h / 2), A: R.A, moved: false }; $w("#wcv").setPointerCapture(e.pointerId); e.preventDefault();
-    if (W.sel !== R.i) { W.sel = R.i; side(); } return; } }
+    drag = { i: R.i, dx: p.x - (R.x + R.w / 2), dy: p.y - (R.y + R.h / 2), A: R.A, w: R.w, h: R.h, moved: false }; $w("#wcv").setPointerCapture(e.pointerId); e.preventDefault();
+    $w("#wcv").style.cursor = "grabbing"; const chg = W.sel !== R.i; W.sel = R.i; fastDraw(); if (chg) side(); return; } }
 }
 function onMove(e) {
   const cv = $w("#wcv"); if (!drag) { if (W.mode === "pick") { const p = ptr(e); cv.style.cursor = RECTS.some(R => p.x >= R.x && p.x <= R.x + R.w && p.y >= R.y && p.y <= R.y + R.h) ? "grab" : "default"; } return; }
   const p = ptr(e), A = drag.A, cd = W.cards[drag.i]; if (!cd) return;
-  cd.fx = Math.max(0, Math.min(1, (p.x - drag.dx - A.x0) / (A.x1 - A.x0))); cd.fy = Math.max(0, Math.min(1, (p.y - drag.dy - A.y0) / (A.y1 - A.y0)));
-  drag.moved = true; cv.style.cursor = "grabbing"; preview();
+  /* 카드 가운데 = 손가락 위치 그대로(자리 비율은 카드가 화면 안에 머무는 범위로 환산) */
+  const sw = Math.max(1, A.x1 - A.x0 - drag.w), sh = Math.max(1, A.y1 - A.y0 - drag.h);
+  const left = Math.max(A.x0, Math.min(A.x1 - drag.w, p.x - drag.dx - drag.w / 2)), top = Math.max(A.y0, Math.min(A.y1 - drag.h, p.y - drag.dy - drag.h / 2));
+  cd.fx = (left - A.x0 + drag.w / 2) / (A.x1 - A.x0); cd.fy = (top - A.y0 + drag.h / 2) / (A.y1 - A.y0);
+  drag.moved = true; fastDraw();
 }
-function onUp() { if (drag && drag.moved) { wsave(); side(); } drag = null; }
+function onUp() { const d = drag; drag = null; if (d) { $w("#wcv").style.cursor = "grab"; fastDraw(); if (d.moved) wsave(); } }
 
 /* ── 열고 닫기 ── */
 let built = false;
 function build() {
   const d = document.createElement("div"); d.id = "wallv"; d.hidden = true; d.setAttribute("role", "dialog"); d.setAttribute("aria-label", "단축키 배경화면 만들기");
   d.innerHTML = `<div class="wtop"><button type="button" class="wback" data-w="close" aria-label="단축키 사전으로">${svg("back")}<span>단축키 사전</span></button><div class="wtt">단축키 배경화면 만들기<small>그림 · 해상도 고르고 단축키를 붙여 저장</small></div><button type="button" class="wclose" data-w="close" aria-label="닫기">${svg("x")}</button></div>
-  <div class="wbody"><aside class="wside"></aside><section class="wmain"><div class="wpv"><canvas id="wcv"></canvas></div><div class="wmeta num"></div><div class="wwarn2" hidden></div><button type="button" class="wbtn pri wsave" data-w="save">${svg("dl")}배경화면 저장</button></section></div>
+  <div class="wbody"><aside class="wside"></aside><section class="wmain"><div class="wpv"><canvas id="wcv"></canvas></div><div class="wmeta num"></div><div class="wwarn2" hidden></div><div class="whow"></div><button type="button" class="wbtn pri wsave" data-w="save">${svg("dl")}배경화면 저장</button></section></div>
   <div class="wbusy" hidden><div>배경화면을 만드는 중…</div></div><div class="wtoast" role="status"></div>`;
   document.body.appendChild(d);
   d.addEventListener("click", onClick); d.addEventListener("change", onChange); d.addEventListener("input", onInput);

diff --git a/msg/index.html b/msg/index.html
@@ -329,7 +329,7 @@ input.cd-in{height:46px}
   .cd-wrap{grid-template-columns:minmax(0,1fr);gap:0}
   .cd-stage{position:sticky;top:57px;z-index:5;border-radius:0 0 16px 16px;padding:10px;margin:-12px -12px 10px}
   #cdpv{max-height:38vh;width:auto;max-width:100%}
-  .cd-side{border-radius:16px}
+  .cd-side{border-radius:16px;overflow:clip}   /* hidden이면 그 안이 스크롤 틀이 돼 아래 단추(sticky)가 내용을 가림 — 11-14 폴드 */
   .cd-body{max-height:none;overflow:visible;padding:12px 12px 4px}
   .cd-acts{position:sticky;bottom:calc(62px + env(safe-area-inset-bottom));z-index:6;border-radius:0 0 16px 16px;padding-bottom:12px}
   .cd-th{grid-template-columns:repeat(3,minmax(0,1fr))}

diff --git a/shortcut/sw.js b/shortcut/sw.js
@@ -1,5 +1,5 @@
 /* 단축키 사전 — 설치형(오프라인) · 열 때마다 새 판 확인 */
-const C = "shortcut-app-v1.0-11140330-back11131322";
+const C = "shortcut-app-v1.0-11140245-back11131322";
 const FILES = ["./", "./index.html", "./manifest.json", "./icon-192.png", "./icon-512.png", "./favicon.png"];
 self.addEventListener("install", e => { e.waitUntil(caches.open(C).then(c => c.addAll(FILES)).then(() => self.skipWaiting())); });
 self.addEventListener("activate", e => { e.waitUntil(caches.keys().then(ks => Promise.all(ks.filter(k => k.startsWith("shortcut-app-") && k !== C).map(k => caches.delete(k)))).then(() => self.clients.claim())); });

diff --git a/msg/sw.js b/msg/sw.js
@@ -1,5 +1,5 @@
 /* 문자 · 인사말 — 설치형(오프라인) · 열 때마다 새 판 확인 */
-const C = "msg-app-v1.0-11132330-suneung";
+const C = "msg-app-v1.0-11140235-fold";
 const FILES = ["./", "./index.html", "./manifest.json", "./icon-192.png", "./icon-512.png", "./favicon.png"];
 self.addEventListener("install", e => { e.waitUntil(caches.open(C).then(c => c.addAll(FILES)).then(() => self.skipWaiting())); });
 self.addEventListener("activate", e => { e.waitUntil(caches.keys().then(ks => Promise.all(ks.filter(k => k.startsWith("msg-app-") && k !== C).map(k => caches.delete(k)))).then(() => self.clients.claim())); });
